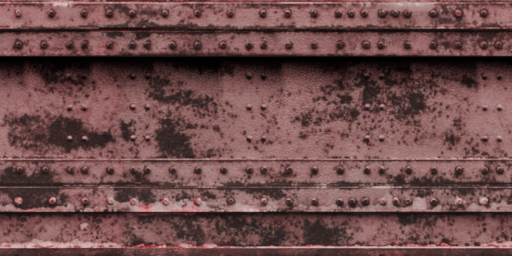
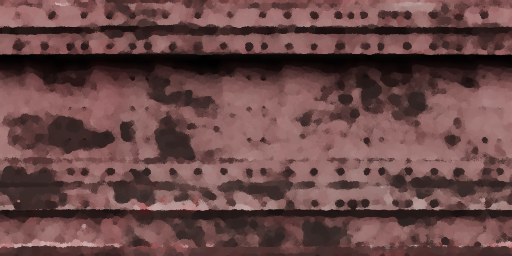
added main menu

diff --git a/SFML Template 3.0.01(working)1/SFML Template 3.0.01(working)1/Game.cpp b/SFML Template 3.0.01(working)1/SFML Template 3.0.01(working)1/Game.cpp
@@ -128,14 +128,28 @@ void Game::update(sf::Time t_deltaTime)
 		m_window.close();
 	}
 
-	player.update();
-	player.isGrounded = false;
+	switch (gameState)
+	{
+	case GameState::MENU:
+		if (sf::Keyboard::isKeyPressed(sf::Keyboard::Key::Enter))
+		{
+			gameState = GameState::GAMEPLAY;
+		}
+		break;
+	case GameState::GAMEPLAY:
+		player.update();
+		player.isGrounded = false;
+		level.checkCollisions(player);
 
-	level.checkCollisions(player);
+		camera.setCenter({ player.body.getPosition().x, player.body.getPosition().y - 200 });
+		debugView.setCenter({ player.body.getPosition() });
+		background.setPosition(sf::Vector2f{ player.body.getPosition().x, player.body.getPosition().y + 150 });
+		break;
+	default:
+		break;
+	}
 
-	camera.setCenter({player.body.getPosition().x, player.body.getPosition().y - 200});
-	debugView.setCenter({ player.body.getPosition() });
-	background.setPosition(sf::Vector2f{ player.body.getPosition().x, player.body.getPosition().y + 150});
+	
 }
 
 /// <summary>
@@ -143,23 +157,37 @@ void Game::update(sf::Time t_deltaTime)
 /// </summary>
 void Game::render()
 {
-	m_window.clear(sf::Color::White);
-	if (!seeDebug)
+	m_window.clear(sf::Color::Black);
+
+	switch (gameState)
 	{
-		m_window.setView(camera);
-	}
-	else
-	{
-		m_window.setView(debugView);
+	case GameState::MENU:
+		m_window.draw(titleScreen);
+		m_window.draw(titleOptions);
+		m_window.draw(title);
+		break;
+	case GameState::GAMEPLAY:
+		if (!seeDebug)
+		{
+			m_window.setView(camera);
+		}
+		else
+		{
+			m_window.setView(debugView);
+		}
+
+
+		m_window.draw(background);
+		m_window.draw(railing);
+
+		level.render(m_window, seeDebug);
+
+		player.Render(m_window, seeDebug);
+		break;
+	default:
+		break;
 	}
 	
-
-	m_window.draw(background);
-	m_window.draw(railing);
-
-	level.render(m_window, seeDebug);
-
-	player.Render(m_window, seeDebug);
 
 	m_window.display();
 }
@@ -189,6 +217,25 @@ void Game::setupTexts()
 /// </summary>
 void Game::setupSprites()
 {
+	if (!titleScreenTex.loadFromFile(("ASSETS\\IMAGES\\TitleScreen.png")))
+	{
+		std::cout << "error loading title screen" << std::endl;
+	}
+	titleScreen.setTexture(titleScreenTex, true);
+
+	if (!titleTex.loadFromFile(("ASSETS\\IMAGES\\Title.png")))
+	{
+		std::cout << "error loading title" << std::endl;
+	}
+	title.setTexture(titleTex, true);
+
+	if (!titleOptionsTex.loadFromFile(("ASSETS\\IMAGES\\TitleOptions.png")))
+	{
+		std::cout << "error loading title" << std::endl;
+	}
+	titleOptions.setTexture(titleOptionsTex, true);
+	titleOptions.setScale(sf::Vector2f{ 0.5,0.5 });
+	titleOptions.setPosition(sf::Vector2f{ 70, 500 });
 	
 	if (!backgroundTex.loadFromFile(("ASSETS\\IMAGES\\temp_background.png")))
 	{

diff --git a/SFML Template 3.0.01(working)1/SFML Template 3.0.01(working)1/Game.h b/SFML Template 3.0.01(working)1/SFML Template 3.0.01(working)1/Game.h
@@ -19,6 +19,13 @@
 #include "player.h"
 #include "level.h"
 
+enum class GameState
+{
+	MENU,
+	GAMEPLAY,
+};
+
+
 class Game
 {
 public:
@@ -55,6 +62,15 @@ private:
 	Player player;
 	sf::Texture platformTex;
 	Level level;
+
+	GameState gameState = GameState::MENU;
+
+	sf::Texture titleScreenTex;
+	sf::Sprite titleScreen{ titleScreenTex };
+	sf::Texture titleTex;
+	sf::Sprite title{ titleTex };
+	sf::Texture titleOptionsTex;
+	sf::Sprite titleOptions{ titleOptionsTex };
 
 	sf::Texture railingTex;
 	sf::Sprite railing{ railingTex };
